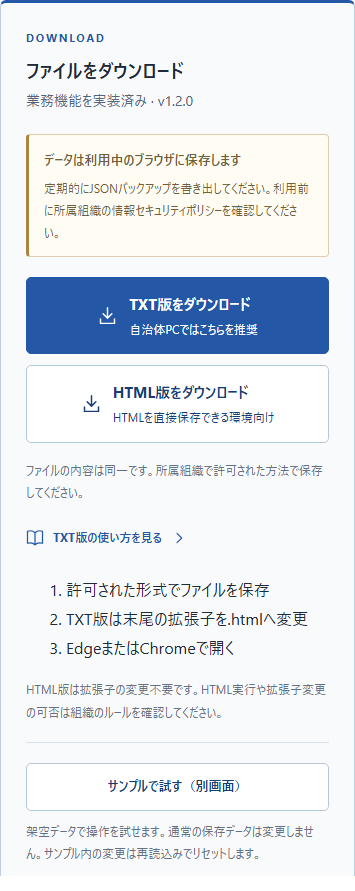
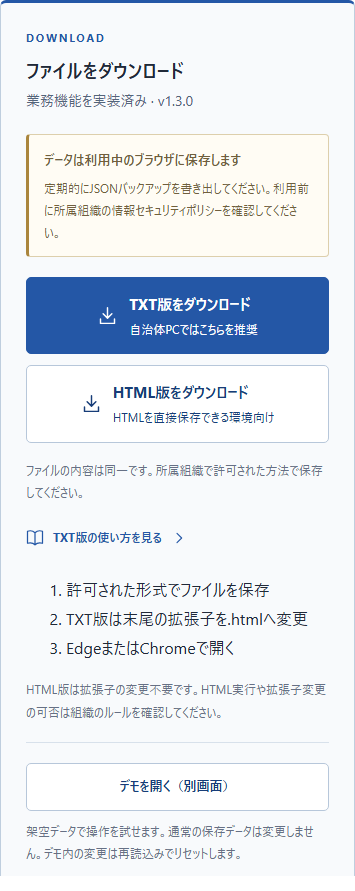
docs: update getting started guide and record demo release validation

Changed region(s): [[0.1239, 0.9394, 0.7127, 0.9697], [0.3099, 0.8788, 0.6817, 0.9091], [0.4958, 0.0909, 0.5268, 0.1212]]

diff --git a/TASKS.md b/TASKS.md
@@ -4,6 +4,10 @@
 
 ## NOW
 
+なし。全8ツールの業務機能と専用デモを公開済み。
+
+## DONE / 全8ツールと専用デモ（2026-10-27）
+
 全8ツールで業務機能を試せるデモを公開する。2026-10-26の確認で、残り6ツールの業務機能も実装する方針が選択された。
 
 - [x] 貸出・返却：備品・貸出者、貸出・返却予定・延滞・履歴、保存・復元・画面検証
@@ -14,21 +18,23 @@
 - [x] イベント：基本情報・タスク・担当・締切・参加者・資料・当日確認、保存・復元・画面検証
 - [x] 全8件の専用デモページ・架空データ・保存領域の分離・初期化・デモへのリンク
 - [x] 全体回帰・型検査・本番ビルド・画面確認・文書更新・yomiyasu
-- [ ] GitHub Pagesの更新と公開URLでの最終確認
+- [x] GitHub Pagesの更新と公開URLでの最終確認
 
 ### 全8ツールとデモの検証（2026-10-27）
 
 貸出・消耗品・カレンダー・会議・問い合わせ・イベントの順に実装し、各段階で業務操作・保存と復元・ビルドを確認した。6ツールには共通の画面・保存検証を追加し、既存の保存・下書き・取消処理を再利用した。引継ぎ・備品台帳の業務処理と保存形式を維持している。
 
-単体テスト46件、型検査80ファイルは成功し、エラー・警告・ヒントは0。通常パスとGitHub Pagesのパスでproduction buildが成功し、46 HTML・1,319参照、8組の同一HTML/TXTとSHA-256を検証した。依存の追加はなく、PROJECT_SPEC.mdは変更していない。
+単体テスト46件、型検査80ファイルは成功し、エラー・警告・ヒントは0。通常パスとGitHub Pagesのパスでproduction buildが成功し、46 HTML・1,320参照、8組の同一HTML/TXTとSHA-256を検証した。依存の追加はなく、PROJECT_SPEC.mdは変更していない。
 
 Chromium・Chrome・Edgeの90シナリオ、合計270件を実行した。265件が成功し、専用デモの5件でスクロール中のクリック位置ずれが発生した。デモ親画面の自動スクロールを即時移動に直し、デモ9シナリオを3ブラウザで3回ずつ再実行した81件はすべて成功した。修正後の確認を合わせ、重複を除く270件の対象を確認した。
 
 保存領域の分離、旧メモと拡張項目の保持、JSON往復、下書き再開、削除の取消、二重貸出・負の在庫・参照先削除の拒否、破損データと競合の保護を確認した。備品CSV追加・更新、棚卸、引継ぎの記入例と期限順、検索、オフライン起動、更新情報・配色・Helpも回帰確認した。
 
-320 / 390 / 768 / 1440pxの画面とキーボード操作を検査し、デスクトップ・スマートフォン・ダーク配色・印刷用表示を実画面で確認した。自動アクセシビリティ検査の対象ルール違反は0。実際の紙印刷、ブラウザズーム、スクリーンリーダー、庁内PCでの操作は未確認。確認結果を`.local-review/business-screens/`と`.local-review/browser-all-demo-before-scroll-fix.json`、`test-results/browser-results.json`に保存した。
+320 / 390 / 768 / 1440pxの画面とキーボード操作を検査し、デスクトップ・スマートフォン・ダーク配色・印刷用表示を実画面で確認した。自動アクセシビリティ検査の対象ルール違反は0。実際の紙印刷、ブラウザズーム、スクリーンリーダー、庁内PCでの操作は未確認。確認結果を`.local-review/business-screens/`、`.local-review/browser-all-demo-before-scroll-fix.json`、`.local-review/browser-demo-final.json`に保存した。ガイド・FAQを現行版に合わせた後、関連9件を再実行して成功した。結果は`.local-review/browser-guide-final.json`に保存した。
 
 日本語UI・ヘルプ・README・保存仕様・検証項目をyomiyasuで確認した。操作説明の自然な文末、手順と検証一覧の箇条書きは保持し、比較結果で機能・上限・データ保護の条件を確認した。
+
+[公開処理](https://github.com/Tetoriapot/municipal-local-toolbox/actions/runs/40346996021)のbuild・deployが成功した。[デモ一覧](https://tetoriapot.github.io/municipal-local-toolbox/demo/)を含む公開61ファイルを取得し、全8組の配布物のバイト数・SHA-256をローカル生成物と照合した。全8デモの表示・編集・JSON書出し・リセット・配色、通常の保存領域の維持、検索、更新情報、Help、ガイド画像、TXT/HTMLのダウンロードを公開URLで確認した。320 / 390 / 768 / 1280 / 1440pxで横はみ出し、JavaScriptエラー、HTTPエラーはなかった。結果は`.local-review/pages-demo-live/report.json`に保存した。起動ガイドの画像も現行版に更新した。
 
 ## DONE / 優先改善 v1.2.0（2026-10-26）
 
